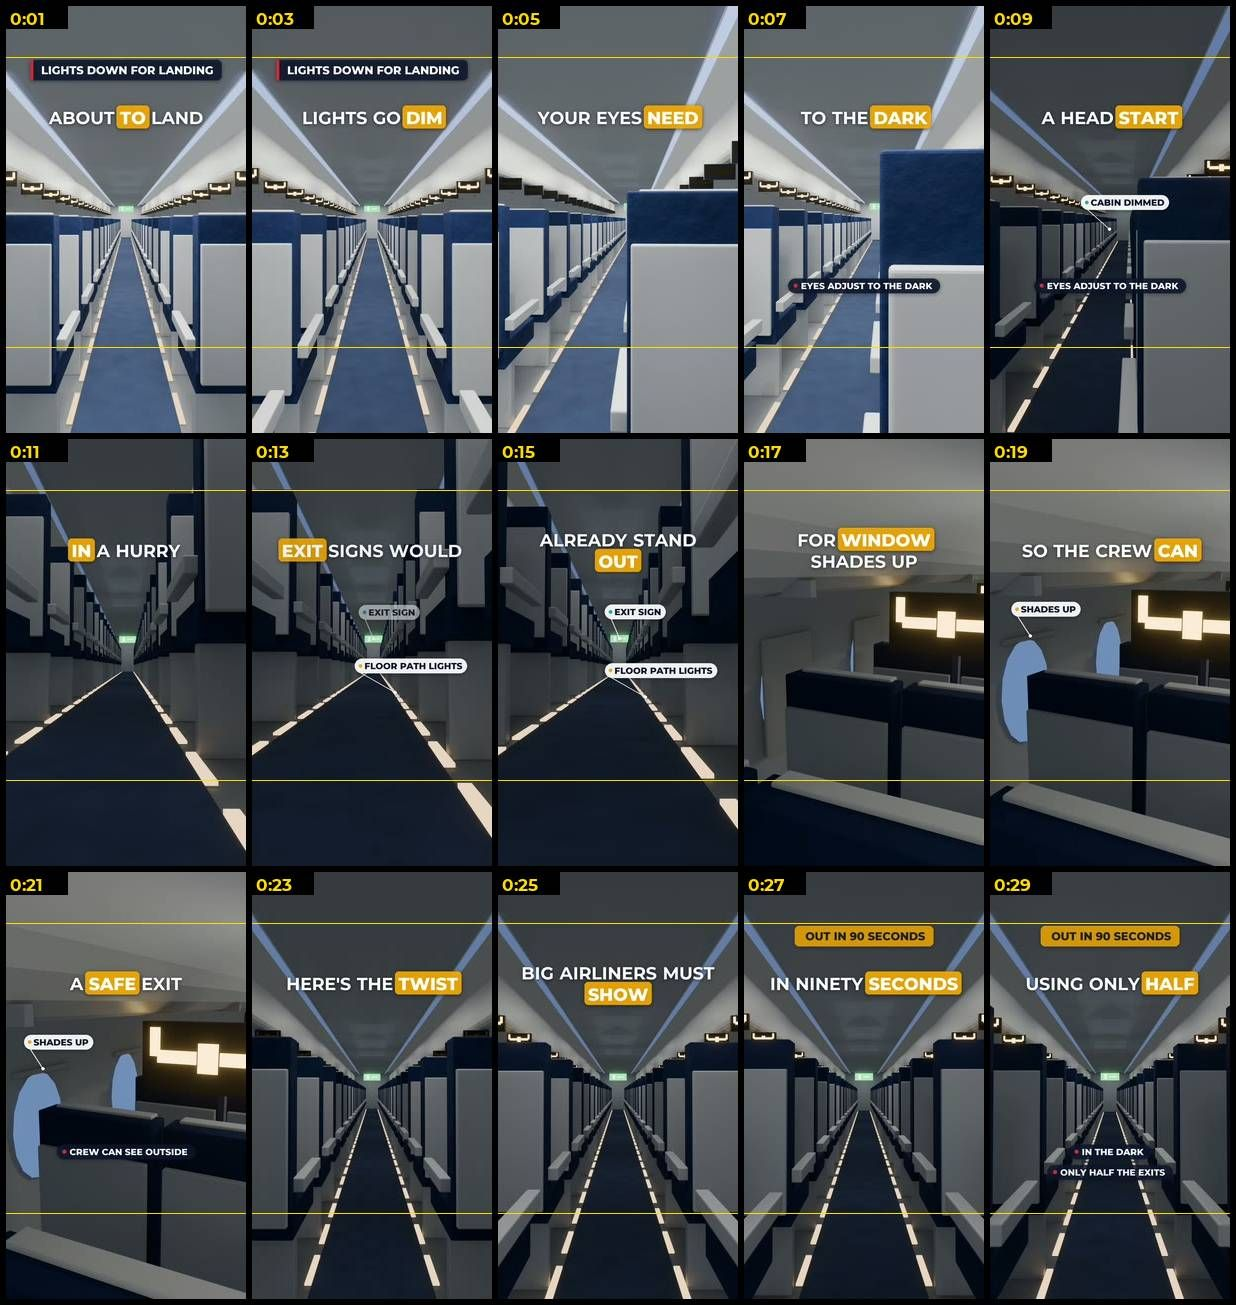
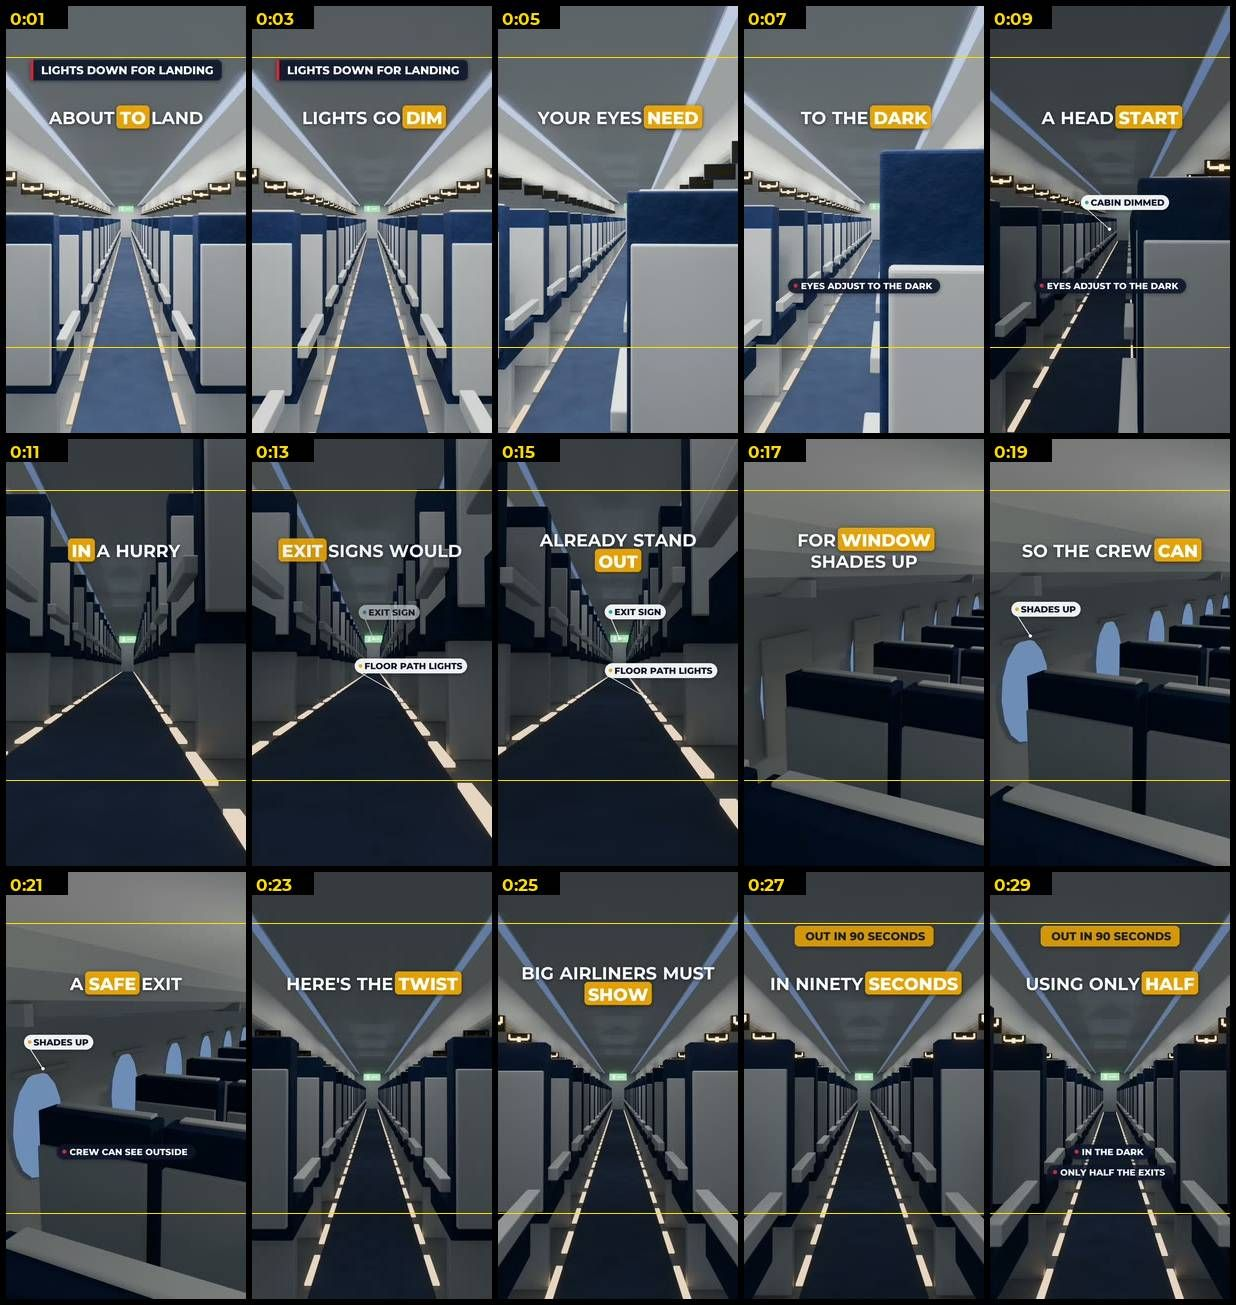
ED QC 2026-11-30-ed-d1-cabin-lights: shades re-render, updated sheets

Changed region(s): [[0.0615, 0.7356, 0.2152, 0.8582], [0.8608, 0.4291, 1.0, 0.5211], [0.6764, 0.4291, 0.7994, 0.5211]]

diff --git a/page3/_qc/2026-11-30-ed-d1-cabin-lights/qc_full.md b/page3/_qc/2026-11-30-ed-d1-cabin-lights/qc_full.md
@@ -4,6 +4,6 @@ Auto checks: PASS
 
 - none
 
-Info: {"duration": 34.03, "size": "1080x1920", "fps": "30/1", "audio": true, "fb_mb": 9.24, "lufs": -14.2, "true_peak_db": -1.4, "lead_silence": 0.16, "tail_silence": 0.87, "mouth_noise_before_words": [], "word_error_rate": 0.009, "sheets": ["output/cabin-lights/qc\\full\\sheet_01.jpg", "output/cabin-lights/qc\\full\\sheet_02.jpg"]}
+Info: {"duration": 34.03, "size": "1080x1920", "fps": "30/1", "audio": true, "fb_mb": 9.26, "lufs": -14.2, "true_peak_db": -1.4, "lead_silence": 0.16, "tail_silence": 0.87, "mouth_noise_before_words": [], "word_error_rate": 0.009, "sheets": ["output/cabin-lights/qc\\full\\sheet_01.jpg", "output/cabin-lights/qc\\full\\sheet_02.jpg"]}
 
 MANUAL (required): open every sheet in qc/full/ (2 sheets, 1 frame/2s) and check each frame.

diff --git a/page3/_qc/2026-11-30-ed-d1-cabin-lights/NOTES.md b/page3/_qc/2026-11-30-ed-d1-cabin-lights/NOTES.md
@@ -7,3 +7,7 @@
 - Minor, not fixed (SKIP): the window shades are flat blue ovals (stylised), fine.
 - Covers: A = 02_path f0060 (dimmed aisle with floor path lights) "Why planes dim the lights:" / "YOUR EYES"; B = 04_twist f0180 (full aisle) "Airliners must empty in" / "90 SECONDS".
 - No fixes applied, nothing re-rendered.
+
+## Update 26 Nov 16:17 MYT: MUST-FIX resolved
+- ED fixed the seatbelt-sign panel in 752a6c8; shot 3 (03_shades) re-rendered alone (179 s), re-assembled, fb 9.26 MB.
+- qc_full PASS, qc_v2 PASS; checked 17.5 / 19.5 / 21.0 s: glitch gone (zz_fixed_shades.jpg). Sheets updated.
